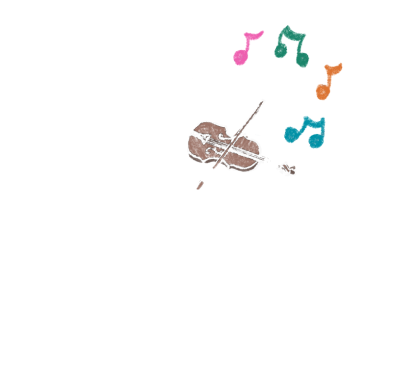
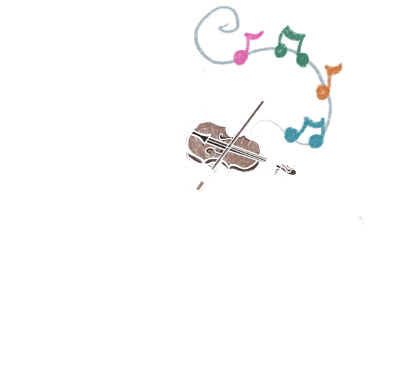
Mascotte definitive e stelline di Famiglie in SVG
- Hero e Contatti: le mascotte definitive dei wireframe v6 (copia locale del
  content; online si sostituiscono dal pannello).
- assets/images/stelline-famiglie.svg: le stelline disegnate in Figma per la
  pagina Famiglie, in currentColor, pronte per la pagina profilo.
- Documentazione: le illustrazioni sono PNG trasparenti, come si sostituiscono
  dal pannello e la trappola dello sfondo bianco nell'esportazione di Figma.

diff --git a/docs/design-tokens.md b/docs/design-tokens.md
@@ -196,7 +196,8 @@ Card, sottolineature della navbar e pallini dello slider devono sembrare fatti a
 
 ## Asset di Laura
 
-- Illustrazioni (mascotte, personaggi per profilo, doodle) in **SVG con sfondo trasparente**.
-- Finché non arrivano si usano placeholder con proporzioni fisse: all'arrivo si sostituisce il file, il layout non cambia.
-- I placeholder grigi non sono scelte di design.
+- Le illustrazioni (mascotte, personaggi dei profili, immagini delle fasi, strumenti della Ricerca) sono disegni a matita: arrivano in **PNG con sfondo trasparente**, perché la grana del tratto non si può rendere in SVG. Sono contenuti: si caricano dal pannello, nel campo dell'illustrazione della sezione o della pagina.
+- **Cambiare un'illustrazione:** nel pannello si apre l'immagine e si sceglie *Sostituisci*: nome del file e testo alternativo restano, il layout non cambia. Il file si prepara al doppio della misura con cui compare in Figma su desktop.
+- **Esportare da Figma:** in Figma le illustrazioni sono spesso un ritaglio di un foglio più grande. L'esportazione PNG di Figma può riempire di bianco lo sfondo: prima di caricarla, controllare che sia trasparente (per esempio aprendola sopra un fondo colorato).
+- **Decorazioni disegnate in Figma** (per esempio le stelline della pagina Famiglie): sono vettori, quindi diventano SVG in `assets/images/` con `stroke="currentColor"`, così prendono il colore del testo intorno (bianco sui fondi colorati). Non sono contenuti: le disegna lo snippet della pagina.
 - I doodle stanno solo vicino a illustrazioni o mascotte, mai accanto al testo, e solo nei colori di sistema.

diff --git a/docs/architecture.md b/docs/architecture.md
@@ -25,7 +25,8 @@ MAInD-HAPPY/
 │   │   ├── layout.css     ← griglia a colonne
 │   │   └── components.css ← bottone, navbar, footer
 │   ├── fonts/             ← Fraunces e Urbanist (woff2) e licenze
-│   ├── images/            ← logo "Happy" in SVG (per l'h1 della home)
+│   ├── images/            ← SVG del sito: logo "Happy" (per l'h1 della home), segno dei titoli,
+│   │                        bordo a pennello, decorazioni disegnate in Figma (stelline di Famiglie)
 │   └── js/                ← menu su mobile
 ├── site/
 │   ├── blueprints/        ← pages/ un file per tipo di contenuto (vedi ontology.md),
